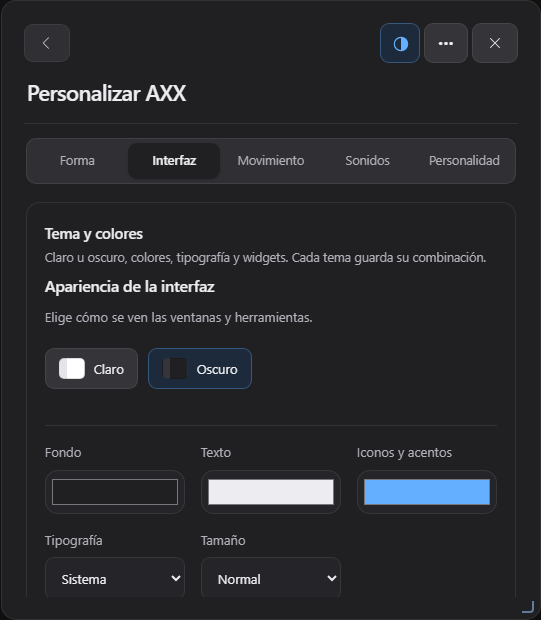
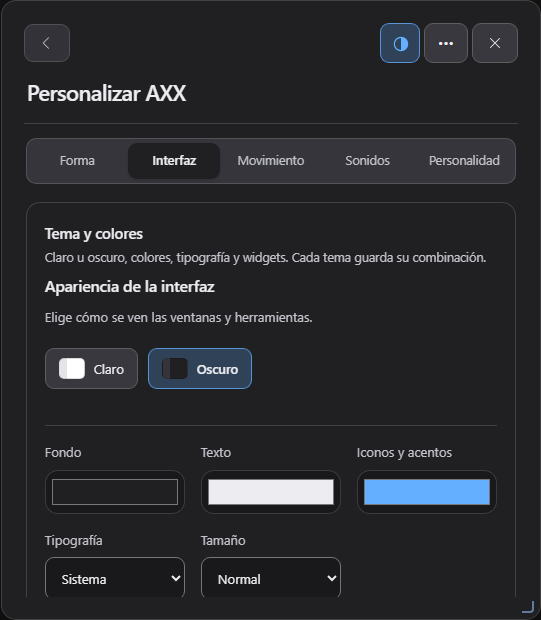
fix(theme): visible control outlines, selection and focus in both themes; clearer dark surfaces
Measured with the new contrast audit. Protected stylesheets are untouched; rules live in phase7-ui.css. Also fixes text contrast in Voces (light) and the dark chat.

Changed region(s): [[0.2662, 0.5516, 0.4732, 0.6435], [0.6802, 0.0306, 0.7985, 0.1226]]

diff --git a/1.AXX/scripts/phase7-ui.css b/1.AXX/scripts/phase7-ui.css
@@ -64,3 +64,32 @@ body.native.axx-resident[data-ui-theme] #panel:not([data-view=chat]) .p7-tabs bu
 body.native.axx-resident[data-ui-theme] #panel:not([data-view=chat]) #view-personalize [data-p7-section][hidden]{display:none}
 body.native.axx-resident[data-ui-theme] #panel:not([data-view=chat]) #view-personalize #axx-interface-theme{border:0!important;background:transparent!important;padding:0!important;margin:0!important}
 body.native.axx-resident[data-ui-theme] #panel:not([data-view=chat]) #view-personalize #id20-motion :is(.id20-lead,.id20-section){border-color:var(--line)!important}
+
+/* ── Themes: control visibility (both) and dark hierarchy ──────────────────────────── */
+/* Measured with `phase7-ui-harness.cjs contrast`: control edges were ≈1.2:1 in both themes. */
+body.native.axx-resident[data-ui-theme]{--p7-field-line:color-mix(in srgb,var(--ink) 56%,var(--surface));--p7-button-line:color-mix(in srgb,var(--ink) 26%,var(--surface));--p7-selected:color-mix(in srgb,var(--accent) 13%,var(--surface))}
+/* Dark: wider steps between surfaces, readable secondary text, visible separators. Background and ink are unchanged. */
+body.native.axx-resident[data-ui-theme=dark]{--surface-subtle:#2a2a2f;--surface-raised:#35353b;--field:#19191c;--line:#ffffff26;--secondary:#c3c3cc;--quiet:#a6a6b0;--button:#38383e;--button-hover:#46464d;--p7-field-line:color-mix(in srgb,var(--ink) 42%,var(--surface));--p7-button-line:color-mix(in srgb,var(--ink) 30%,var(--surface));--p7-selected:color-mix(in srgb,var(--accent) 24%,var(--surface))}
+body.native.axx-resident[data-ui-theme=dark] :is(#panel,#flow-library,#context-menu){color-scheme:dark}
+body.native.axx-resident[data-ui-theme=dark] #panel .panel-view{scrollbar-color:#ffffff47 transparent}
+/* Outlines */
+body.native.axx-resident[data-ui-theme] :is(#panel:not([data-view=chat]),#flow-library,#v13-settings,.organic-satellite,#reach-tray) button:not([data-palette]){border-color:var(--p7-button-line)!important}
+body.native.axx-resident[data-ui-theme] :is(#panel:not([data-view=chat]),#v13-settings,#v13-pad,.organic-satellite,#ink-review,#reach-tray) :is(input,textarea,select):not([type=range]):not([type=checkbox]):not([type=radio]):not([type=color]):not([type=file]){border-color:var(--p7-field-line)!important}
+/* Selected, pressed, disabled */
+body.native.axx-resident[data-ui-theme] #panel:not([data-view=chat]) :is([aria-selected=true],button.active,button[aria-pressed=true],.form-option[aria-checked=true]){background:var(--p7-selected)!important;border-color:color-mix(in srgb,var(--accent) 75%,transparent)!important;font-weight:600}
+body.native.axx-resident[data-ui-theme] #panel:not([data-view=chat]) button:not([data-palette]):active:not(:disabled){background:color-mix(in srgb,var(--ink) 12%,var(--button))!important}
+body.native.axx-resident[data-ui-theme] #panel:not([data-view=chat]) :is(.primary,button.p7-main):active:not(:disabled){filter:brightness(.9)}
+body.native.axx-resident[data-ui-theme] #panel:not([data-view=chat]) :is(button,select,input,textarea):disabled{opacity:.55!important;cursor:not-allowed}
+/* Focus, checkboxes, radios, sliders */
+body.native.axx-resident[data-ui-theme] :is(#panel,#flow-library,#v13-settings,.organic-satellite) :is(button,input,textarea,select,summary,[role=tab]):focus-visible{outline:2px solid var(--accent)!important;outline-offset:2px!important}
+body.native.axx-resident[data-ui-theme] #panel:not([data-view=chat]) input:is([type=checkbox],[type=radio]){width:18px;height:18px;flex:none;accent-color:var(--accent-fill)}
+body.native.axx-resident[data-ui-theme] #panel:not([data-view=chat]) input[type=range]{accent-color:var(--accent-fill)}
+/* Known defects from phase 6: light text left on a light surface (Voces) and dim labels in the dark chat. Colour only. */
+/* Voces keeps its dark cards in both themes, so their text must stay light instead of taking the light theme's ink. */
+body.native.axx-resident[data-ui-theme] #panel #view-voices :is(.voice-studio-intro,.voice-studio-now,.voice-studio-choice,.voice-studio-controls,.chat20-voice-card,#voice-audio-controls) :is(h3,h4,strong,b){color:#eef6fb!important}
+body.native.axx-resident[data-ui-theme] #panel #view-voices :is(.voice-studio-intro,.voice-studio-now,.voice-studio-choice,.voice-studio-controls,.chat20-voice-card,#voice-audio-controls) :is(p,small,span,label){color:#c9d9e4!important}
+body.native.axx-resident[data-ui-theme=dark] #panel[data-view=chat] :is(.cw-mode-label,.cw-mode-label *,#cu-chat-status,abbr){color:var(--secondary)!important}
+body.native.axx-resident[data-ui-theme=dark] #panel[data-view=chat] #cu-open{color:var(--ink)!important;background:var(--button)!important;border-color:var(--p7-button-line)!important}
+body.native.axx-resident[data-ui-theme=dark] #panel[data-view=chat] .cw-thread[aria-current=true]{background:#005fc7!important}
+body.native.axx-resident[data-ui-theme=dark] #panel[data-view=chat] #cw-browser :is(input,select){border-color:var(--p7-field-line)!important}
+body.native.axx-resident[data-ui-theme] #panel #view-voices .voice-studio-heading span{color:var(--secondary)!important}

diff --git a/docs/phase-7/THEME-QA.md b/docs/phase-7/THEME-QA.md
@@ -1,0 +1,49 @@
+# Fase 7 · Temas claro y oscuro (Incremento 5)
+
+Autorización del cambio visual: petición del usuario de la Fase 7 («preservar casi íntegramente el modo claro, corregir selecciones y controles poco visibles, mejorar sustancialmente el modo oscuro»). Este documento es la revisión de regresión que exige `docs/mobile/COMPATIBILITY-PROTOCOL.md`.
+
+**No se editó ningún archivo protegido por `mobile/design-baseline.json`** (`Axx.html#inline-styles`, `interface-theme.css`, `chat-workspace.css`, `transfer.css`): todas las reglas están en el archivo nuevo `1.AXX/scripts/phase7-ui.css`, cargado al final. Los hashes no se han refrescado.
+
+## Medición
+`node 1.AXX/scripts/phase7-ui-harness.cjs contrast` (añadir `P7_VERBOSE=1` para el detalle). Compone cada color sobre sus ancestros reales y aplica WCAG: texto 4.5:1 (3:1 si es grande), borde de campos 3:1, botones rotulados 1.5:1.
+
+| Tema | Vista | Antes: texto / contorno | Después: texto / contorno |
+|---|---|---|---|
+| Claro | Sistema y datos | 0 / 156 | 0 / 0 |
+| Claro | IA y proveedores | 0 / 26 | 0 / 0 |
+| Claro | Forma, Sonidos, Personalidad, Laboratorio, Interfaz | 0 / 14–42 | 0 / 0 |
+| Claro | Voces | 24 / 6 | ver nota |
+| Oscuro | Sistema y datos | 0 / 159 | 0 / 0 |
+| Oscuro | IA y proveedores | 0 / 26 | 0 / 0 |
+| Oscuro | resto de vistas de la fase | 0 / 14–42 | 0 / 0 |
+| Oscuro | Chat | 3 / 18 | 0 / 1 |
+
+Causa común: `--line` (8 % en claro, 9 % en oscuro) se usaba también como contorno de controles → ≈ 1.2:1.
+
+Nota sobre Voces (claro): el medidor no ve fondos con degradado, así que sigue contando como fallo el texto claro sobre las tarjetas oscuras de esa vista. La comprobación es visual: `screenshots/after-voices-light-full.png`.
+
+## Claro (identidad conservada)
+Sin cambios de superficie, tinta, acento ni tipografía. Solo:
+- Contorno de botones: tinta al 26 % (antes 8 %). Contorno de campos y selectores: tinta al 56 % (≥ 3:1).
+- Seleccionado (`aria-selected`, `.active`, `aria-pressed`, forma elegida): fondo de acento al 13 % (antes 5 %), borde de acento al 75 %, peso 600.
+- Foco: anillo sólido de 2 px en el color de acento (antes 3 px al 45 %).
+- Casillas y radios de 18 px con `accent-color`; deslizadores con `accent-color`.
+- Pulsado (`:active`) y deshabilitado (opacidad .55, cursor) definidos.
+
+## Oscuro
+- Superficies con más separación: `--surface-subtle #2a2a2f`, `--surface-raised #35353b`, `--field #19191c`, `--button #38383e` / hover `#46464d`. Fondo `#202023` y tinta `#ededf1` sin cambios (son los valores por defecto del selector de colores).
+- Separadores `--line #ffffff26`; texto secundario `#c3c3cc`, terciario `#a6a6b0`.
+- `color-scheme: dark` en panel, catálogo y menú contextual: menús desplegables, casillas y barras de scroll nativas pasan a oscuro. `scrollbar-color` visible.
+- Los mismos contornos, seleccionado, foco, pulsado y deshabilitado que en claro, derivados de `--ink`/`--accent`, así que siguen los colores personalizados por el usuario.
+
+## Defectos de Fase 6 (solo color, sin rediseño)
+- **Voces (claro)**: la vista conserva sus tarjetas oscuras en ambos temas, pero el tema claro les imponía tinta oscura (título «Tu voz, a tu manera.» a 1.05:1). Ahora el texto dentro de esas tarjetas es claro y los rótulos de sección usan `--secondary`.
+- **Chat (oscuro)**: etiqueta de modo (2.18:1), «Configurar control del PC» (1.32:1) e iconos de ayuda pasan a tokens legibles; el hilo actual usa `#005fc7` (blanco a 5.3:1, antes 4.32:1); borde de los campos del navegador de chats.
+
+## Fuera de alcance, sin tocar
+- Chat en claro: 16 contornos por debajo de 3:1 (lanzadores y campos del navegador de chats). No se cambió para no alterar el chat claro aprobado.
+- Chat en oscuro: el selector `#cw-mode` (1.14:1) no tiene borde propio.
+- Exterior del avatar, órbita, dock y materiales 3D: sin cambios.
+
+## Capturas
+`screenshots/before-*` y `screenshots/after-*` (`-fold` = panel real; `-full` = vista completa en claro).

diff --git a/docs/phase-7/CODEX-HANDOFF.md b/docs/phase-7/CODEX-HANDOFF.md
@@ -1,0 +1,41 @@
+# Fase 7 · Handoff para Codex (dictado global / Handy)
+
+Rama `claude/axx-phase-7-ui`, base `a750362`. Sin push, sin publicación, sin instalación. `main` intacto.
+
+## Archivos compartidos modificados
+Solo `1.AXX/Axx.html`, 6 líneas:
+
+| Línea | Cambio |
+|---|---|
+| 1663–1665 | Rótulos de las pestañas de `view-ai`: «Modelo local», «Cuenta ChatGPT», «Por API · Otro proveedor con clave». Mismos `id`, `data-ai-mode`, `aria-controls`. |
+| 12905 | `LABELS`: añade `personalize: 'Personalizar AXX'`. |
+| 12910 | `GROUPS.assist.ids`: `'agent'` → `'personalize'`; salen `'appearance'` y `'sound'` de la lista del catálogo. |
+| 20099 | Al final: `<link rel="stylesheet" href="scripts/phase7-ui.css"><script src="scripts/phase7-ui.js"></script>`. |
+
+Si Codex toca esas líneas, el conflicto se resuelve conservando ambas partes; `phase7-ui.js` debe seguir siendo el **último** script.
+
+## Archivos nuevos (propiedad de esta fase)
+`1.AXX/scripts/phase7-ui.js`, `phase7-ui.css`, `phase7-ui-harness.cjs`, `phase7-control-baseline.json`, `docs/phase-7/*`.
+
+## No modificado
+`native-voice.js`, `native-speech-stream.js`, `voice-audio.js`, `voice-conversation.js`, `voice-phrases.js`, `remote-voice.js`, `native-voice-fallback.draft.js`, ASR, servicios de audio, coordinador de micrófono, atajos, contratos de voz, `src-tauri/` (Rust), `backend/` (Python), `providers.js`, `interface-theme.*`.
+
+Lo único relacionado con voz es **solo CSS de color**: texto de `#view-voices` en tema claro y `#cu-open`/etiquetas del chat en oscuro. La tarjeta `#axx-remote-voice` y el interruptor `#voice-autosend` solo cambiaron de contenedor (mismo nodo, mismo handler).
+
+## Cómo integrar el nuevo apartado de dictado sin otro rediseño
+1. **Tarjeta en Sistema y datos**: añadir un `<section class="setup-card" id="…">` con un `<strong>` de título a `#view-settings` (como hacen hoy los demás módulos). `phase7-ui.js` la recoge sola en «Conexiones e integraciones» como plegable (o tal cual si tiene un único botón). Llamar a `card.scrollIntoView()` abre su plegable.
+2. **Vista propia**: registrar la función en `Axx.FEATURES` y crear `section.panel-view#view-<id>`. Componentes disponibles con solo usar las clases:
+   - `section.p7-group > header > h3 + p`, cuerpo `div.p7-body`.
+   - `div.p7-row > div.p7-copy (strong + small) + div.p7-actions` — variantes `p7-danger`, `p7-caution`, `p7-stack`.
+   - `button.p7-main` (una acción principal por grupo), `details.p7-more` / `details.p7-fold` (divulgación progresiva), `nav.p7-nav` (saltos), `nav.p7-tabs[role=tablist]`.
+   - Los contornos, foco, seleccionado, deshabilitado y el tema oscuro se aplican solos dentro de `#panel`.
+3. **Atajo de dictado**: `labelOf('shortcut')` vive en «Windows e inicio»; un control nuevo de atajo puede añadirse a `#p7-windows .p7-body`.
+4. Tokens: usar `--surface`, `--surface-subtle`, `--line`, `--ink`, `--secondary`, `--accent`, `--danger`, y para contornos `--p7-button-line` / `--p7-field-line`.
+
+## Contratos que debe respetar un módulo nuevo
+- No depender de que un control sea hijo directo de `#view-settings` o `#view-ai`: ahora están dentro de `.p7-group`.
+- `#axx-interface-theme`, `#reduced-motion` y `#static-mode` cambian de vista según cuál esté abierta (un comentario `p7-home` marca su sitio).
+- Añadir los ids nuevos a las pruebas propias; `phase7-control-baseline.json` solo protege los ids anteriores a la fase.
+
+## Dependencias de Codex
+Ninguna. La fase no espera nada del trabajo de dictado.
